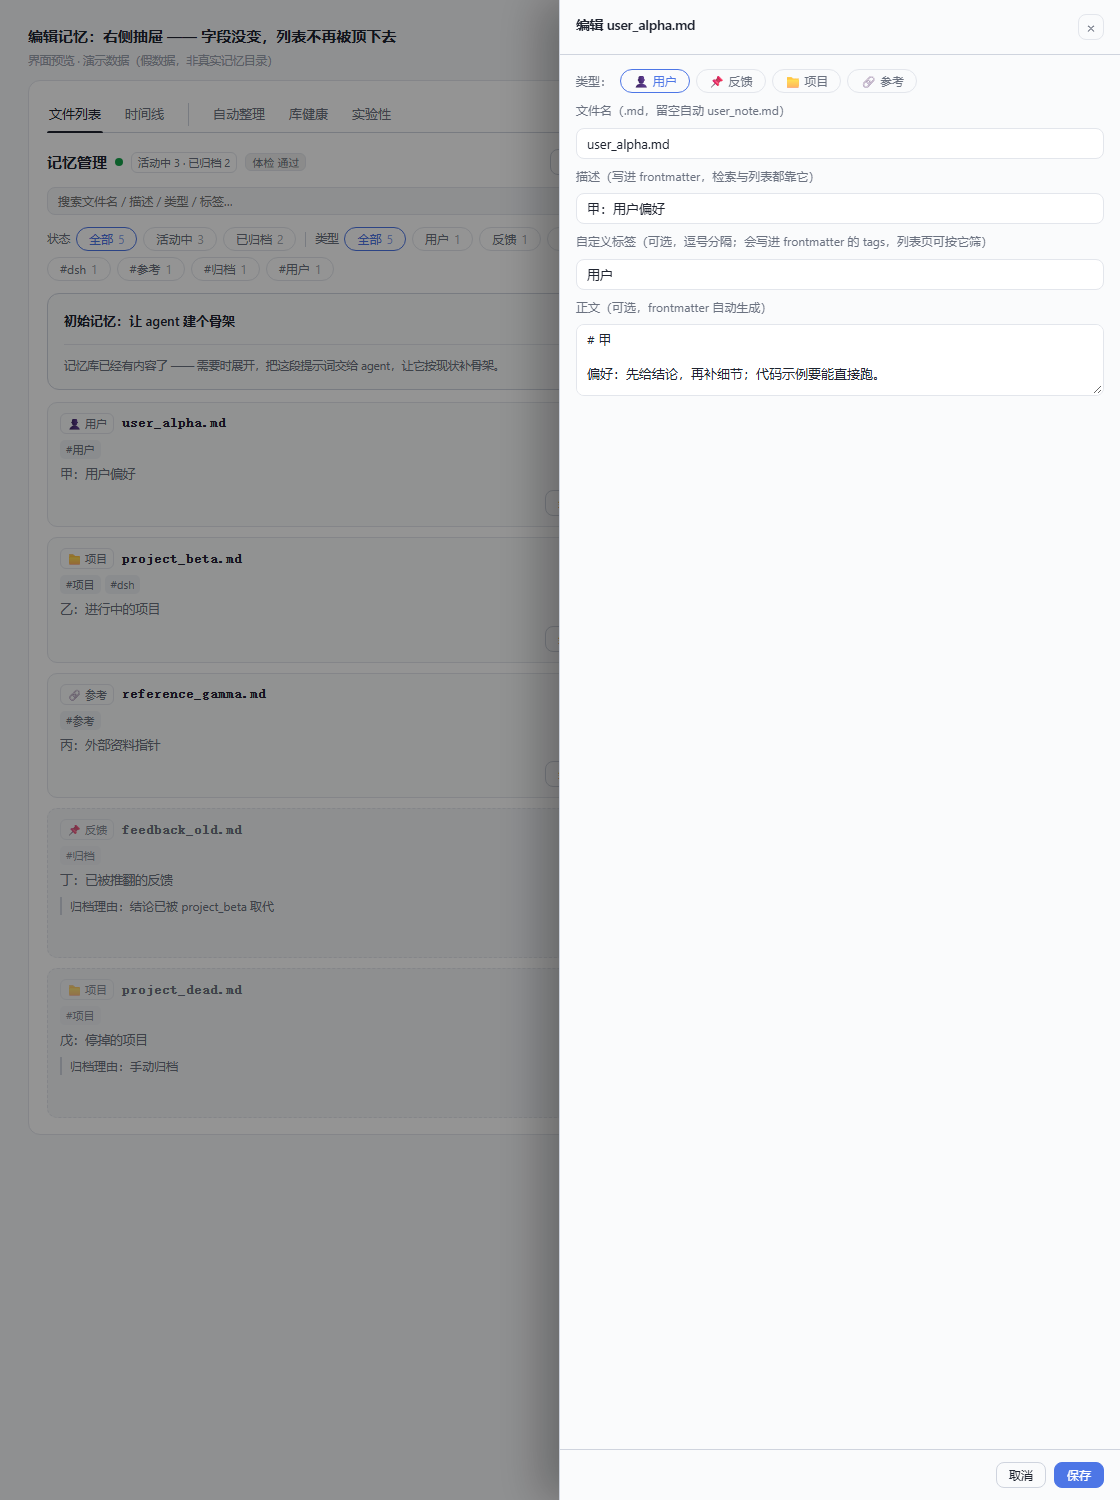
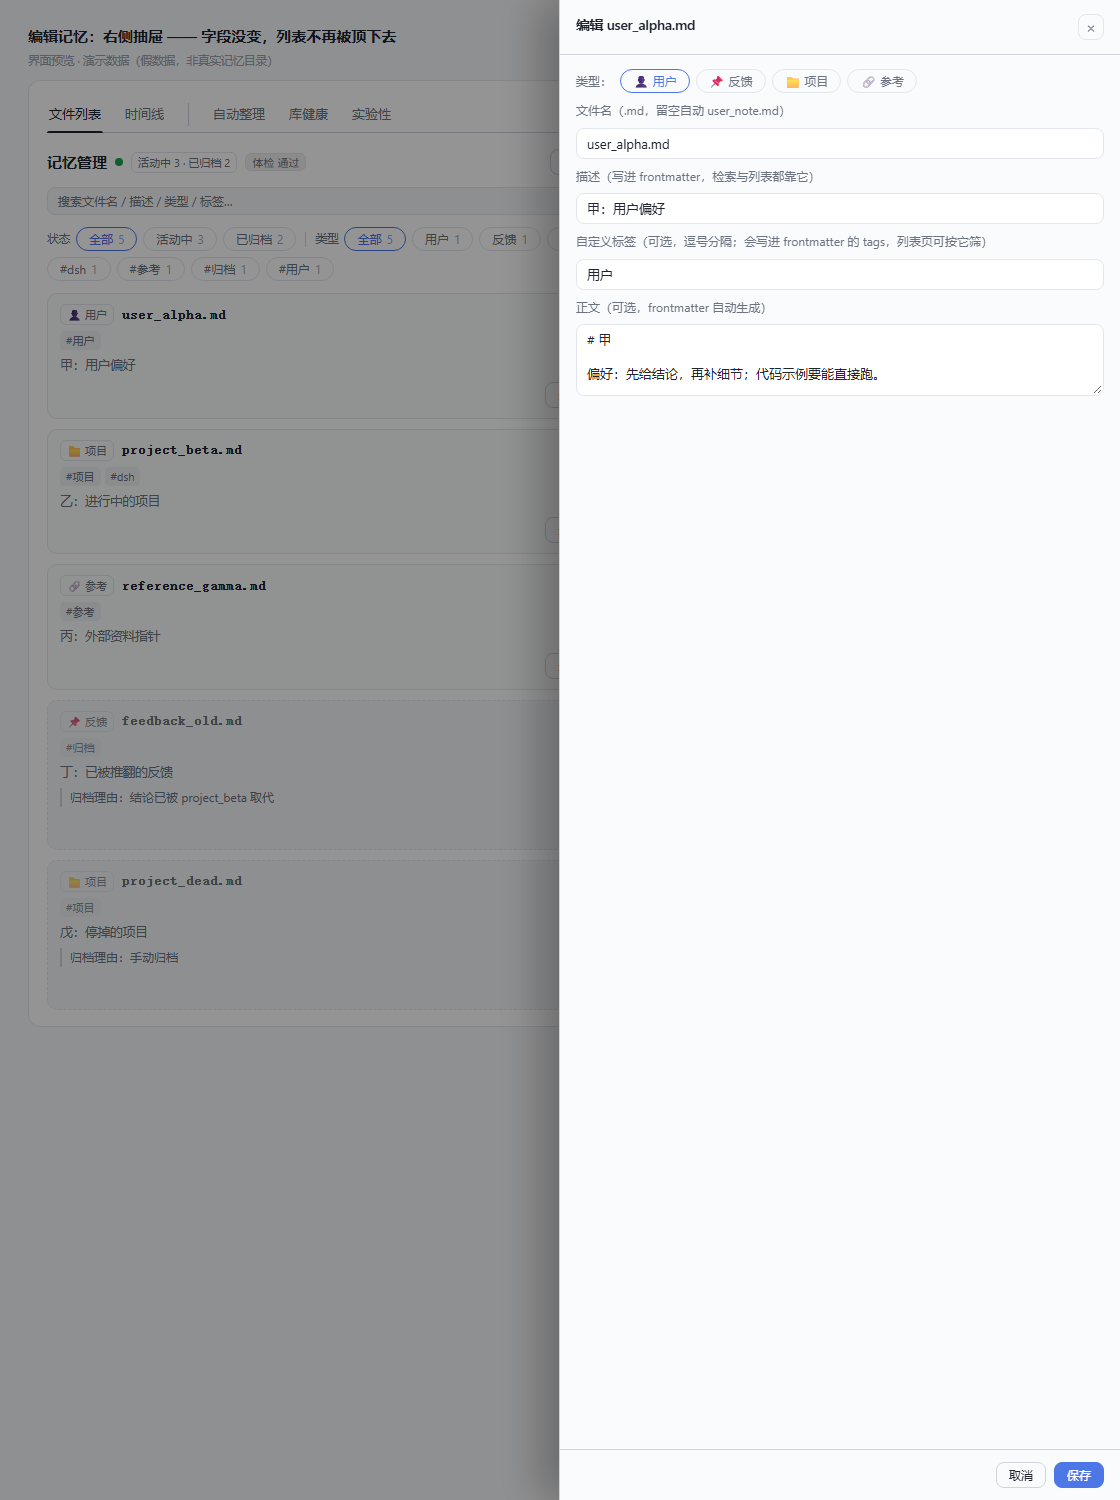
fix(2.12.1): 初始记忆卡片挪到「实验性」页签顶部
2.12.0 把它摆在文件列表顶部 —— 那是每天读记忆的地方，而它是一次性上手材料。
看过真机后定位：它跟 MMR、待办看板同属「不一定天天用、但需要时找得到」那一栏。

- 卡片改由装配层放进 lab 那一屏（`client/70-memory-panel.js`），
  `FilesView` 反向回到「只吃 props 的纯渲染」，不再认识这张卡
- 卡片自身行为一条没动：空库展开 / 老库收起、复制 + 提醒、失败兜底、下载 .md、零写盘

测试：第 28 组改成「先点实验性页签再看卡」，并加两条反向对照（空库 / 老库的文件列表
都没有这张卡），全组 21 条；全量 5282 passed / 0 failed。
真机：隔离 DSH_HOME + profile smtest，Playwright 13/13（含剪贴板与下载逐字节、切页签往返）。
文档：CHANGELOG / decisions D46 / roadmap / 双语 README / release-notes；展示图与快照重出。
另外把测试里那几条「不许出现真名 / 内部称呼」的判据改成 Unicode 转义 —— 否则这份公开的
测试文件自己就成了泄漏点（同一个道理）。顺手清掉两处注释里的真名。

diff --git a/lib/client.js b/lib/client.js
@@ -6822,6 +6822,10 @@ h("span", { key: "sep", className: "smem-actions-sep", "aria-hidden": "true" }),
 		 *   （哪些记忆被端上来）。后者出事的样子是「该来的那条没来」，也就是失忆 ——
 		 *   用户必须能一眼找到这是实验性的、并且知道怎么关掉。
 		 *
+		 * 2.12.1：这一屏最上面还挂着**初始记忆卡片**（`InitialGuideCard`，不是开关）——
+		 * 它和 MMR / 待办看板同属「不天天用、需要时找得到」的那一栏；文件列表留给「今天读哪条」。
+		 * 卡片由装配层（`client/70-memory-panel.js`）造好放进同一屏，本文件不 import 它。
+		 *
 		 * 目前只有一个开关：**MMR 去重**（注入名额有限时，同族记忆不再互相挤占名额）。
 		 * 语义与三道护栏在宿主侧 `lib/memory/mmr.js`；这里只负责读写与说清楚代价。
 		 *
@@ -7560,13 +7564,7 @@ h("span", { key: "sep", className: "smem-actions-sep", "aria-hidden": "true" }),
 					: list;
 			}
 
-			// 2.12.0：初始记忆卡片由**装配层**（Section）造好传进来（`guideCard`）。
-			// 这一屏保持「只吃 props 的纯渲染」：不 import 卡片、也不判断库空不空 ——
-			// 于是它单独被渲染（比如 Q16 那套只拼 05+55+50+72 的量具）时照样成立。
-			// 没有卡片时**原样返回**（不包数组）：旧调用点拿到的形状必须与 2.11.1 一致。
-			if (!props.guideCard) return filesView;
-			const body = Array.isArray(filesView) ? filesView : [filesView];
-			return [props.guideCard].concat(body);
+			return filesView;
 		}
 
 		// ── 筛选条（1.5.2 从 Section 里抽出）────────────────────────────────
@@ -8837,7 +8835,10 @@ h("span", { key: "sep", className: "smem-actions-sep", "aria-hidden": "true" }),
 			const healthWork = (audit && typeof audit.problems === "number" && audit.problems > 0 ? audit.problems : 0)
 				+ (conflictOpen > 0 ? conflictOpen : 0);
 
-			// 2.12.0：初始记忆卡片（放在文件列表顶部，由装配层决定，FilesView 只负责摆）。
+			// 2.12.0（2.12.1 改位置）：初始记忆卡片 —— 挂在**实验性**那一屏最上面。
+			// 放这里的理由（2026-11-17 定）：它不是日常动作，是「第一次上手」用的一段材料，
+			// 和 MMR / 待办看板一样属于「你可能不会天天用、但需要时找得到」的那一栏；
+			// 文件列表留给「今天要读哪条记忆」。卡片由装配层造好传给实验性屏，FilesView 不再认识它。
 			// 骨架加载期间不渲染：`totalCount` 此刻还是 0，卡片会误判成空库并展开一次再收起。
 			const guideCard = (loading && totalCount === 0) ? null : h(InitialGuideCard, {
 				key: "guide",
@@ -8849,7 +8850,6 @@ h("span", { key: "sep", className: "smem-actions-sep", "aria-hidden": "true" }),
 			// 「文件列表」这一屏：状态筛选决定看哪一批，灰色卡片与留痕块自带「退役」语义。
 			// banner 只在**专门看归档**时出现，切到全部时不重复说一遍。
 			const filesView = h(FilesView, {
-				guideCard: guideCard,
 				loading: loading, totalCount: totalCount, openAdd: openAdd, createIndexSkeleton: createIndexSkeleton,
 				statusFilter: statusFilter, setStatusFilter: setStatusFilter,
 				items: items, archiveItems: archiveItems, filtered: filtered,
@@ -9156,7 +9156,7 @@ h("span", { key: "sep", className: "smem-actions-sep", "aria-hidden": "true" }),
 							h(AuditPanel, { key: "audit", report: audit, busy: auditBusy, onRun: runAudit, standalone: true }),
 						])
 					: tab === "lab"
-					? h("div", { className: "smem-stack smem-view", key: "lab" }, [h(LabSettingsPanel, { key: "lab-card", ctx: props.ctx })])
+					? h("div", { className: "smem-stack smem-view", key: "lab" }, [guideCard, h(LabSettingsPanel, { key: "lab-card", ctx: props.ctx })])
 					: h("div", { className: "smem-view", key: "files" }, filesView),
 				// 2.8.0：第三方注入的视图（`settings.memory.starmap` 子槽）。没有占用者时是 null，
 				// 一个 div 都不出 —— 所以默认安装下界面与 2.7.0 逐像素相同。

diff --git a/client/70-memory-panel.js b/client/70-memory-panel.js
@@ -1182,7 +1182,10 @@
 			const healthWork = (audit && typeof audit.problems === "number" && audit.problems > 0 ? audit.problems : 0)
 				+ (conflictOpen > 0 ? conflictOpen : 0);
 
-			// 2.12.0：初始记忆卡片（放在文件列表顶部，由装配层决定，FilesView 只负责摆）。
+			// 2.12.0（2.12.1 改位置）：初始记忆卡片 —— 挂在**实验性**那一屏最上面。
+			// 放这里的理由（2026-11-17 定）：它不是日常动作，是「第一次上手」用的一段材料，
+			// 和 MMR / 待办看板一样属于「你可能不会天天用、但需要时找得到」的那一栏；
+			// 文件列表留给「今天要读哪条记忆」。卡片由装配层造好传给实验性屏，FilesView 不再认识它。
 			// 骨架加载期间不渲染：`totalCount` 此刻还是 0，卡片会误判成空库并展开一次再收起。
 			const guideCard = (loading && totalCount === 0) ? null : h(InitialGuideCard, {
 				key: "guide",
@@ -1194,7 +1197,6 @@
 			// 「文件列表」这一屏：状态筛选决定看哪一批，灰色卡片与留痕块自带「退役」语义。
 			// banner 只在**专门看归档**时出现，切到全部时不重复说一遍。
 			const filesView = h(FilesView, {
-				guideCard: guideCard,
 				loading: loading, totalCount: totalCount, openAdd: openAdd, createIndexSkeleton: createIndexSkeleton,
 				statusFilter: statusFilter, setStatusFilter: setStatusFilter,
 				items: items, archiveItems: archiveItems, filtered: filtered,
@@ -1501,7 +1503,7 @@
 							h(AuditPanel, { key: "audit", report: audit, busy: auditBusy, onRun: runAudit, standalone: true }),
 						])
 					: tab === "lab"
-					? h("div", { className: "smem-stack smem-view", key: "lab" }, [h(LabSettingsPanel, { key: "lab-card", ctx: props.ctx })])
+					? h("div", { className: "smem-stack smem-view", key: "lab" }, [guideCard, h(LabSettingsPanel, { key: "lab-card", ctx: props.ctx })])
 					: h("div", { className: "smem-view", key: "files" }, filesView),
 				// 2.8.0：第三方注入的视图（`settings.memory.starmap` 子槽）。没有占用者时是 null，
 				// 一个 div 都不出 —— 所以默认安装下界面与 2.7.0 逐像素相同。

diff --git a/client/64-lab-settings.js b/client/64-lab-settings.js
@@ -6,6 +6,10 @@
 		 *   （哪些记忆被端上来）。后者出事的样子是「该来的那条没来」，也就是失忆 ——
 		 *   用户必须能一眼找到这是实验性的、并且知道怎么关掉。
 		 *
+		 * 2.12.1：这一屏最上面还挂着**初始记忆卡片**（`InitialGuideCard`，不是开关）——
+		 * 它和 MMR / 待办看板同属「不天天用、需要时找得到」的那一栏；文件列表留给「今天读哪条」。
+		 * 卡片由装配层（`client/70-memory-panel.js`）造好放进同一屏，本文件不 import 它。
+		 *
 		 * 目前只有一个开关：**MMR 去重**（注入名额有限时，同族记忆不再互相挤占名额）。
 		 * 语义与三道护栏在宿主侧 `lib/memory/mmr.js`；这里只负责读写与说清楚代价。
 		 *

diff --git a/client/72-files-view.js b/client/72-files-view.js
@@ -84,12 +84,6 @@
 					: list;
 			}
 
-			// 2.12.0：初始记忆卡片由**装配层**（Section）造好传进来（`guideCard`）。
-			// 这一屏保持「只吃 props 的纯渲染」：不 import 卡片、也不判断库空不空 ——
-			// 于是它单独被渲染（比如 Q16 那套只拼 05+55+50+72 的量具）时照样成立。
-			// 没有卡片时**原样返回**（不包数组）：旧调用点拿到的形状必须与 2.11.1 一致。
-			if (!props.guideCard) return filesView;
-			const body = Array.isArray(filesView) ? filesView : [filesView];
-			return [props.guideCard].concat(body);
+			return filesView;
 		}
 

diff --git a/.release-notes.md b/.release-notes.md
@@ -1,34 +1,27 @@
-## 2.12.0
+## 2.12.1
 
-**主题：初始记忆改成「一段提示词」—— 插件一个记忆文件都不写，动笔的交给会话里的 agent。**
+**主题：初始记忆卡片从「文件列表」挪到「实验性」页签顶部。**
 
-新装的库是空的，而 agent 并不知道你的记忆该怎么起 —— 它要么把记忆写成日记，要么一条都不写。原计划是安装后自动写 3–5 份默认记忆；这一版把那个方案换掉了：写盘会立刻带出「会不会覆盖我已有的记忆」，而为它配状态文件、版本守卫、撤销栈，全是给一个没人要求的写动作付保险费。改成给一份清单：**复制 → 粘给 agent → 它先看你库里有什么，再动笔**。
+2.12.0 把这张卡摆在文件列表顶部 —— 那是你**每天**读记忆的地方，而它是一次性上手材料。看过真机后定位就清楚了：它和 MMR、待办看板属于同一栏（「不一定天天用，但需要时找得到」）。
 
-### 怎么用
+### 行为变更
 
-设置 → 记忆管理 → 文件列表顶部那张「初始记忆」卡片：**复制提示词**（或**下载 .md**），粘到会话里发给 agent。
-
-- 空库默认展开，已有记忆的库默认收起（点「展开」看正文）。
-- 复制成功会弹一句提醒 —— 下一棒在你手里；剪贴板被拒时把全文摊出来手抄，绝不静默失败。
-- 下载成 `sage-mem-initial-memory.md`；浏览器不支持时同样退回复制兜底。
-
-### 提示词让 agent 做什么
-
-1. 先读随包技能 `skills/sage-mem/SKILL.md`（机制不复述）；
-2. 先看库里已有什么；
-3. **已有文件只做增量、不覆盖、不重排、不顺手整理，拿不准就问**；
-4. 建 `MEMORY.md` 索引（四类分区、一行一条）、`session-log.md` 流水（固定时间标题格式）、三条起步记忆（记忆纪律 / 库结构 / 收尾动作）；
-5. 收尾列出新建了什么、每条为什么是「推不出来的」。
-
-提示词里**没有**你的个人信息、没有版本号、不抄 frontmatter 字段表 —— 那些是技能的事（`test/initial-guide-test.mjs` 37 条断言盯着，含四条反向对照）。
+- **入口**：设置 → 记忆管理 → **实验性** → 最上面那张「初始记忆」卡；文件列表回到原样（一个像素也没多）。
+- 其余全不变：空库默认展开 / 老库收起、复制提示词后弹「下一步在你手里」、复制失败摊出来手抄、下载 `.md`、整个流程零写盘。
+- `FilesView` 反向回到「只吃 props 的纯渲染」（不再认识这张卡）；卡片由装配层放进实验性那一屏 —— 这样 Q16 那套只拼 05+55+50+72 的量具照旧成立。
 
 ### 不变
 
-- **零写盘**：插件从不创建 / 覆盖 / 删除任何记忆文件。没有状态文件、没有撤销栈、没有新增 remote、没有新增设置项，`settings.json` 不需要迁移。
-- 注入、检索、体积治理、索引、基线排序、待办看板、60 KB 会话预算全部不变。
+- 提示词正文、`skills/sage-mem/SKILL.md` 第十二节、i18n、零写盘、零 remote、零设置项全部不变。
+- 注入 / 检索 / 体积治理 / 索引 / 冲突 / 待办看板一行未动。
 
-### 顺手修掉的一处量具 bug
+### 新增测试
 
-客户端渲染测试的迷你 React 原先按**全局序号**存 hook 状态 —— 任何一个组件多一个 `useState`，后面所有组件的状态就整体错位（本次实测：星图读到别的状态，报 `cannot read properties of undefined (reading 'filter')`）。现在键是「组件路径 + 组件内序号」，与真实 React 一致。
+- `client-render-test` 第 28 组改成「进实验性页签再看卡」，并新增两条**反向对照**：文件列表那一屏**没有**这张卡（空库与老库各一条）。21 条断言。
 
-**完整说明**：[CHANGELOG](https://github.com/gezi-wen/sage-mem/blob/main/CHANGELOG.md) · 取舍记录：`docs/decisions.md` D46
+### 实测
+
+- 全量 93 套件 **5282 passed / 0 failed**；CI ubuntu × Node 18/20/24 全绿。
+- 隔离 `DSH_HOME` + profile `smtest` 装本版 tgz，Playwright 走完**实验性页签**上的全流程（含剪贴板逐字节、下载 `.md` 逐字节、老库收起、零 console error）。
+- 界面快照：三屏哈希都变（内联 CSS 参与序列化），**文件列表那一屏是 DOM 真变**（卡片撤走）。
+- README 展示图重出（文件列表那张回到了 2.12.0 之前的样子）。

diff --git a/README.en.md b/README.en.md
@@ -12,7 +12,7 @@
 
 **Cross-session memory for DeepSeek Harness — plain markdown files, no database, no worker.**
 
-**Current release: `2.12.0`** — the npm badge above is the dynamic source of truth. **Contract baseline: `1.0.0`** — the first stable release, whose public commitments, the capability boundaries and the list of things it explicitly cannot do are frozen in the
+**Current release: `2.12.1`** — the npm badge above is the dynamic source of truth. **Contract baseline: `1.0.0`** — the first stable release, whose public commitments, the capability boundaries and the list of things it explicitly cannot do are frozen in the
 [frozen contract](https://github.com/gezi-wen/sage-mem/blob/main/docs/1.0.0-contract.md).
 
 If it is useful to you, a Star is the most direct feedback.
@@ -474,11 +474,11 @@ The two things are moved **differently**, spelled out:
 - **Hot**: flipping the switch takes effect immediately, no restart (unlike MMR).
 - **Off by default**; no drag-and-drop ordering, no automatic `session-log` archiving — moving those pending-deletion rows into the log is the agent's job at wrap-up. Details in `docs/todo-board.md`.
 
-## Initial memory: scaffold the library with an agent (2.12.0)
+## Initial memory: scaffold the library with an agent (2.12.0; moved to Lab in 2.12.1)
 
 A freshly installed library is empty, and the agent has no idea how your memories should start — it either writes a diary or writes nothing at all.
 
-The **Initial memory** card at the top of Settings → Memory management → Files holds a prompt you can execute directly: **copy** it (or **download the .md**), paste it to the agent in the conversation. It first looks at what your library already contains, then creates the `MEMORY.md` index, the `session-log.md` log and three starter memories (memory discipline / library layout / wrap-up routine).
+The **Initial memory** card at the top of Settings → Memory management → **Lab** holds a prompt you can execute directly: **copy** it (or **download the .md**), paste it to the agent in the conversation. It first looks at what your library already contains, then creates the `MEMORY.md` index, the `session-log.md` log and three starter memories (memory discipline / library layout / wrap-up routine).
 
 ![Initial memory: copy this prompt to the agent and it scaffolds the library around what you already have](https://raw.githubusercontent.com/gezi-wen/sage-mem/main/docs/images/initial-guide.png)
 

diff --git a/CHANGELOG.md b/CHANGELOG.md
@@ -8,6 +8,32 @@
 ---
 
 
+## 2.12.1
+
+**主题：初始记忆卡片从「文件列表」挪到「实验性」页签顶部 —— 一次性上手材料不占每天读记忆的那一屏。**
+
+版本判定：2.12.1（PATCH）｜理由：不改能力、不加对外面（同一条 remote / 同一套设置 / 同一段正文），只改一张卡挂在哪个页签 ｜运行时源文件 2 个（`client/70`、`client/72`，净变动约 15 行）｜护栏内。
+
+### 行为变更
+
+- **入口换了**：设置 → 记忆管理 → **实验性** → 最上面那张「初始记忆」卡。文件列表恢复原样（卡片撤走、`FilesView` 回到「只吃 props 的纯渲染」，不再认识这张卡）。
+- 卡片自身行为一条没动：空库展开 / 老库收起、复制后弹「下一步在你手里」、复制失败摊出来手抄、下载 `.md`、零写盘。
+- 装配层把卡片放进实验性那一屏（`client/70-memory-panel.js` 的 lab 分支），与 2.6.0 的提示词弹窗、2.11.0 的待办看板同属「装配层决定位置」的做法。
+
+### 不变
+
+- 提示词正文、随包技能第十二节、i18n、零写盘、零 remote、零设置项、`settings.json` 全部不变。
+- 注入 / 检索 / 体积治理 / 索引 / 冲突 / 待办看板一行未动。
+
+### 新增测试
+
+- `client-render-test` 第 28 组改成「先点『实验性』页签再看卡」，并加两条**反向对照**：文件列表那一屏没有这张卡（空库 / 老库各一条）。全组 21 条。
+
+### 实测
+
+- 全量 93 套件 **5282 passed / 0 failed**；CI ubuntu × Node 18/20/24 全绿。
+- 隔离 `DSH_HOME` + profile `smtest` 装本版 tgz，Playwright 走实验性页签上的全流程（剪贴板逐字节、下载 `.md` 逐字节、老库收起、零 console error）。
+- 界面快照三屏哈希都变（内联 CSS 参与序列化），其中**文件列表是 DOM 真变**（卡片撤走）；README 展示图一并重出。
 ## 2.12.0
 
 **主题：初始记忆改成「一段提示词」—— 插件一个记忆文件都不写，动笔的交给会话里的 agent。**

diff --git a/docs/roadmap.md b/docs/roadmap.md
@@ -13,7 +13,7 @@
 
 原计划：安装后按需写 3–5 份默认记忆（`feedback_*` / `reference_*` 骨架），挂在实验开关后面。
 
-**实际做法（当天推翻，见 `docs/decisions.md` D46）**：**插件一个记忆文件都不写**。改成在「记忆管理 → 文件列表」顶部给一张卡：一段可复制 / 可下载的初始化提示词，用户把它粘给会话里的 agent，由 agent 先查已有文件、再建索引 `MEMORY.md`、流水 `session-log.md` 与三条起步记忆。
+**实际做法（当天推翻，见 `docs/decisions.md` D46）**：**插件一个记忆文件都不写**。改成一张卡：一段可复制 / 可下载的初始化提示词，用户把它粘给会话里的 agent，由 agent 先查已有文件、再建索引 `MEMORY.md`、流水 `session-log.md` 与三条起步记忆。**卡片位置 2.12.1 定了「实验性」页签顶部**（2.12.0 那天先放在文件列表，他看过真机后要求挪走：一次性上手材料不占日常那一屏）。
 
 为什么改：① 写盘就得防「覆盖用户已有记忆」，要状态文件 + revision 守卫 + 撤销栈，三样都是保险费；② 随包技能 `skills/sage-mem/SKILL.md` 已经讲透机制，再来一份正文就是第二份真相；③ 「建哪几条、按谁的情况写」只有会话里的 agent 知道。
 
